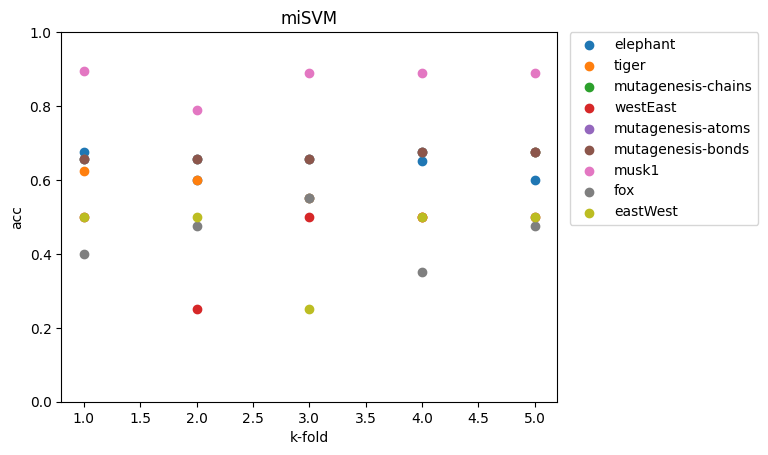
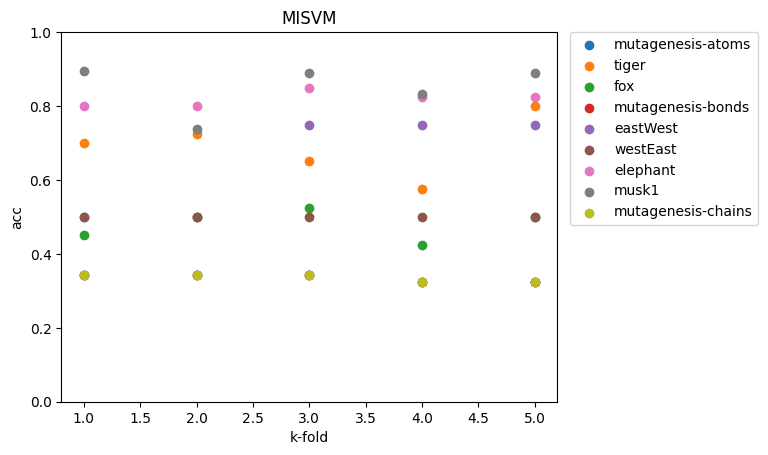
graphs fix

diff --git a/graphs.py b/graphs.py
@@ -6,9 +6,12 @@ import matplotlib.pyplot as plt
 data = pandas.read_csv("./compare/score.csv")
 
 algos = set(data.algo)
+print(algos)
 for algo in algos:
-    for dataset in set(data.dataset):
-        csv_algo_dataset = data[data['dataset'] == dataset & data['algo'] == algo]
+    csv_algo = data[data['algo'] == algo]
+    print(algo)
+    for dataset in set(csv_algo.dataset):
+        csv_algo_dataset = csv_algo[csv_algo['dataset'] == dataset]
 
         accuracies = csv_algo_dataset['acc'].values.tolist()
         kfold = csv_algo_dataset['k_fold'].values.tolist()
@@ -22,7 +25,7 @@ for algo in algos:
 
         if 0 not in howmany:
             res = [i / j for i, j in zip(accs, howmany)]
-            plt.scatter([1,2,3,4,5], accs, label=dataset)
+            plt.scatter([1,2,3,4,5], res, label=dataset)
 
     plt.title(algo)
     plt.xlabel("k-fold")
@@ -30,4 +33,36 @@ for algo in algos:
     plt.ylim(0,1)
     plt.legend(bbox_to_anchor=(1.025, 1), loc='upper left', borderaxespad=0)
     plt.savefig(algo, bbox_inches='tight')
+    plt.close()
+
+datasets = set(data.dataset)
+
+#make sure the colours are consistent between different graphs
+algo_colour = {'MI-Net': 'blue', 'MICA': 'red', 'MISVM': 'green', 'MILboost LogSumExponential': 'pink', 'MissSVM': 'orange', 'SIL':'purple', 'STK':'grey', 'miSVM': 'yellow', 'NSK': 'black', 'MILboost GeneralizedMean': 'brown', 'mi-Net': 'lawngreen', 'sbMIL': 'mediumslateblue'}
+
+
+for dataset in datasets:
+    csv_dataset = data[data['dataset'] == dataset]
+
+    for algo in set(csv_dataset.algo):
+        csv_algo_dataset = csv_dataset[csv_dataset['algo'] == algo]
+
+        times = csv_algo_dataset['time'].values.tolist()
+        kfold = csv_algo_dataset['k_fold'].values.tolist()
+
+        ts = [0,0,0,0,0]
+        howmany = [0,0,0,0,0]
+
+        for i, time in enumerate(times):
+            ts[ (kfold[i] - 1) % 5 ] += time
+            howmany[ (kfold[i] - 1) % 5 ] += 1
+
+        res = [i / j if j != 0 else -1 for i, j in zip(ts, howmany)]
+        plt.scatter(res, [1,2,3,4,5], label=algo, color=algo_colour[algo])
+
+    plt.title(dataset)
+    plt.xlabel("time (s)")
+    plt.ylabel("K-fold")
+    plt.legend(bbox_to_anchor=(1.025, 1), loc='upper left', borderaxespad=0)
+    plt.savefig(dataset + "_speed-overview", bbox_inches='tight')
     plt.close()
